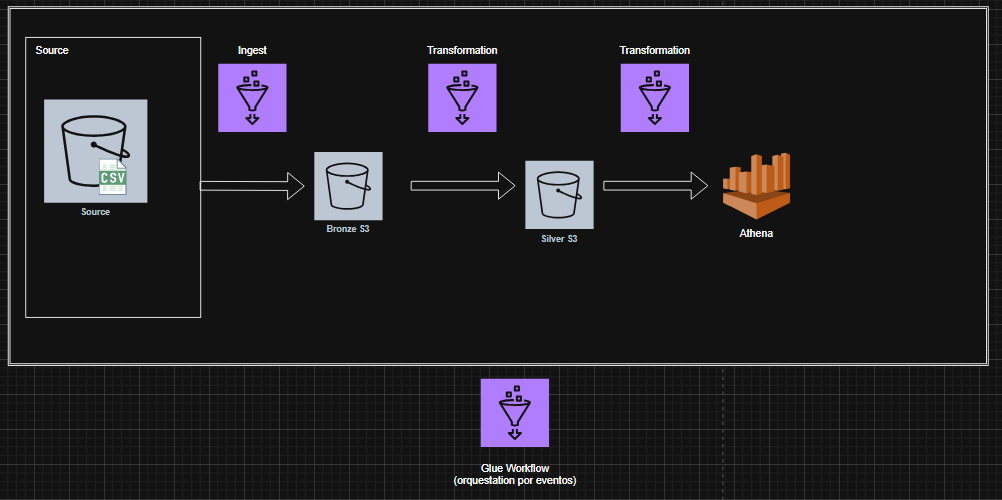
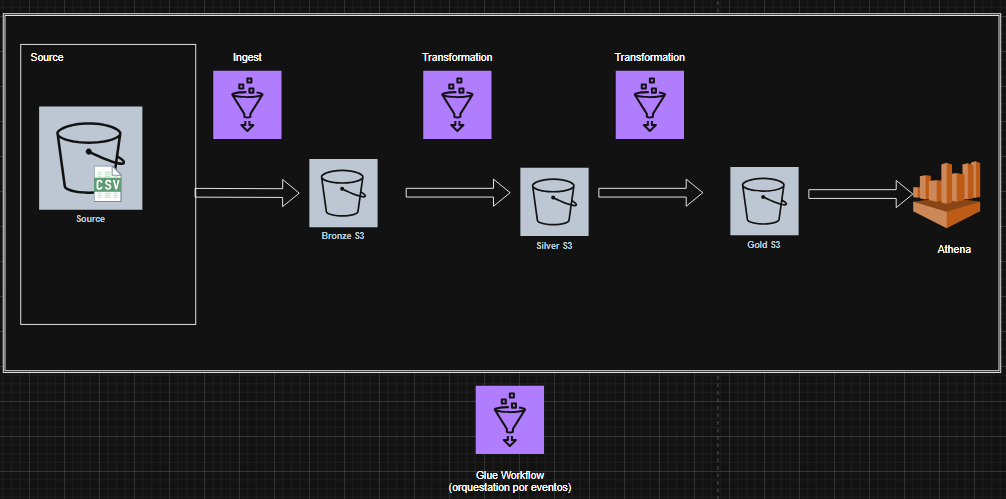
improve readme

diff --git a/README.md b/README.md
@@ -8,9 +8,17 @@ bronze → datos crudos.
 
 silver → datos transformados.
 
+gold   → datos desnormalizados
 athena → resultados de consultas.
 
 Se utiliza AWS Athena para visualizar y consultar los datos ya transformados y agregados del dataset.
 
 ![arquitectura](images/architecture.png)
 
+La fuente de datos consta de 2 csv con la siguiente preview:
+
+categorias.csv
+![head categorias](images/ejemplo_categorias.png)
+
+productos.csv
+![head productos](images/ejemplo_productos.png)
